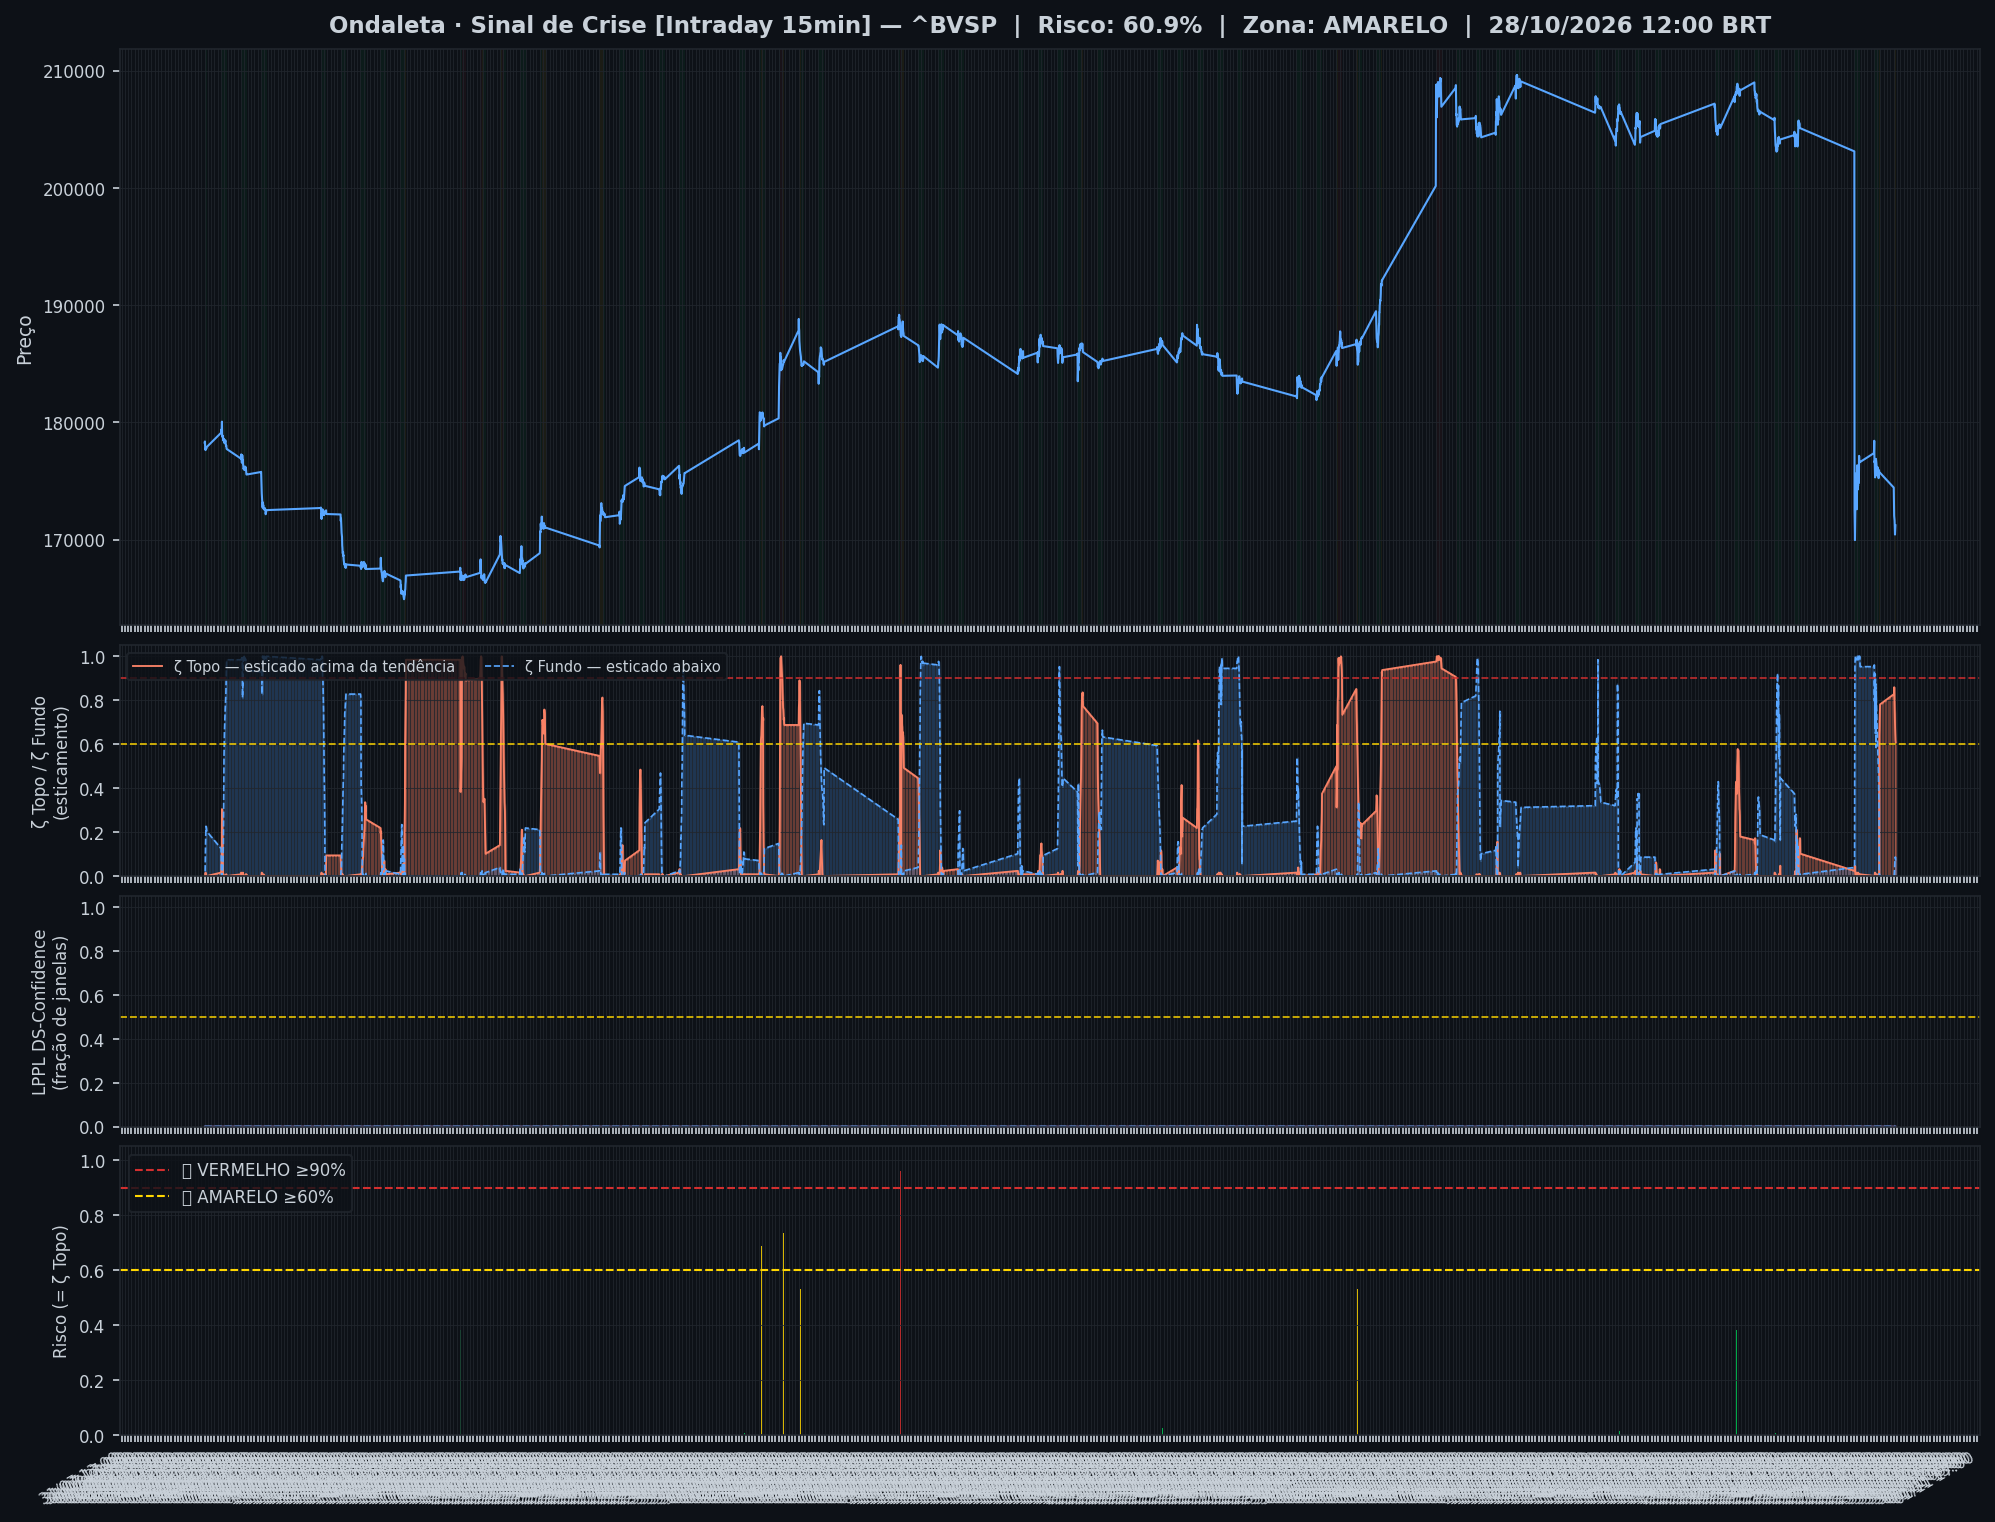
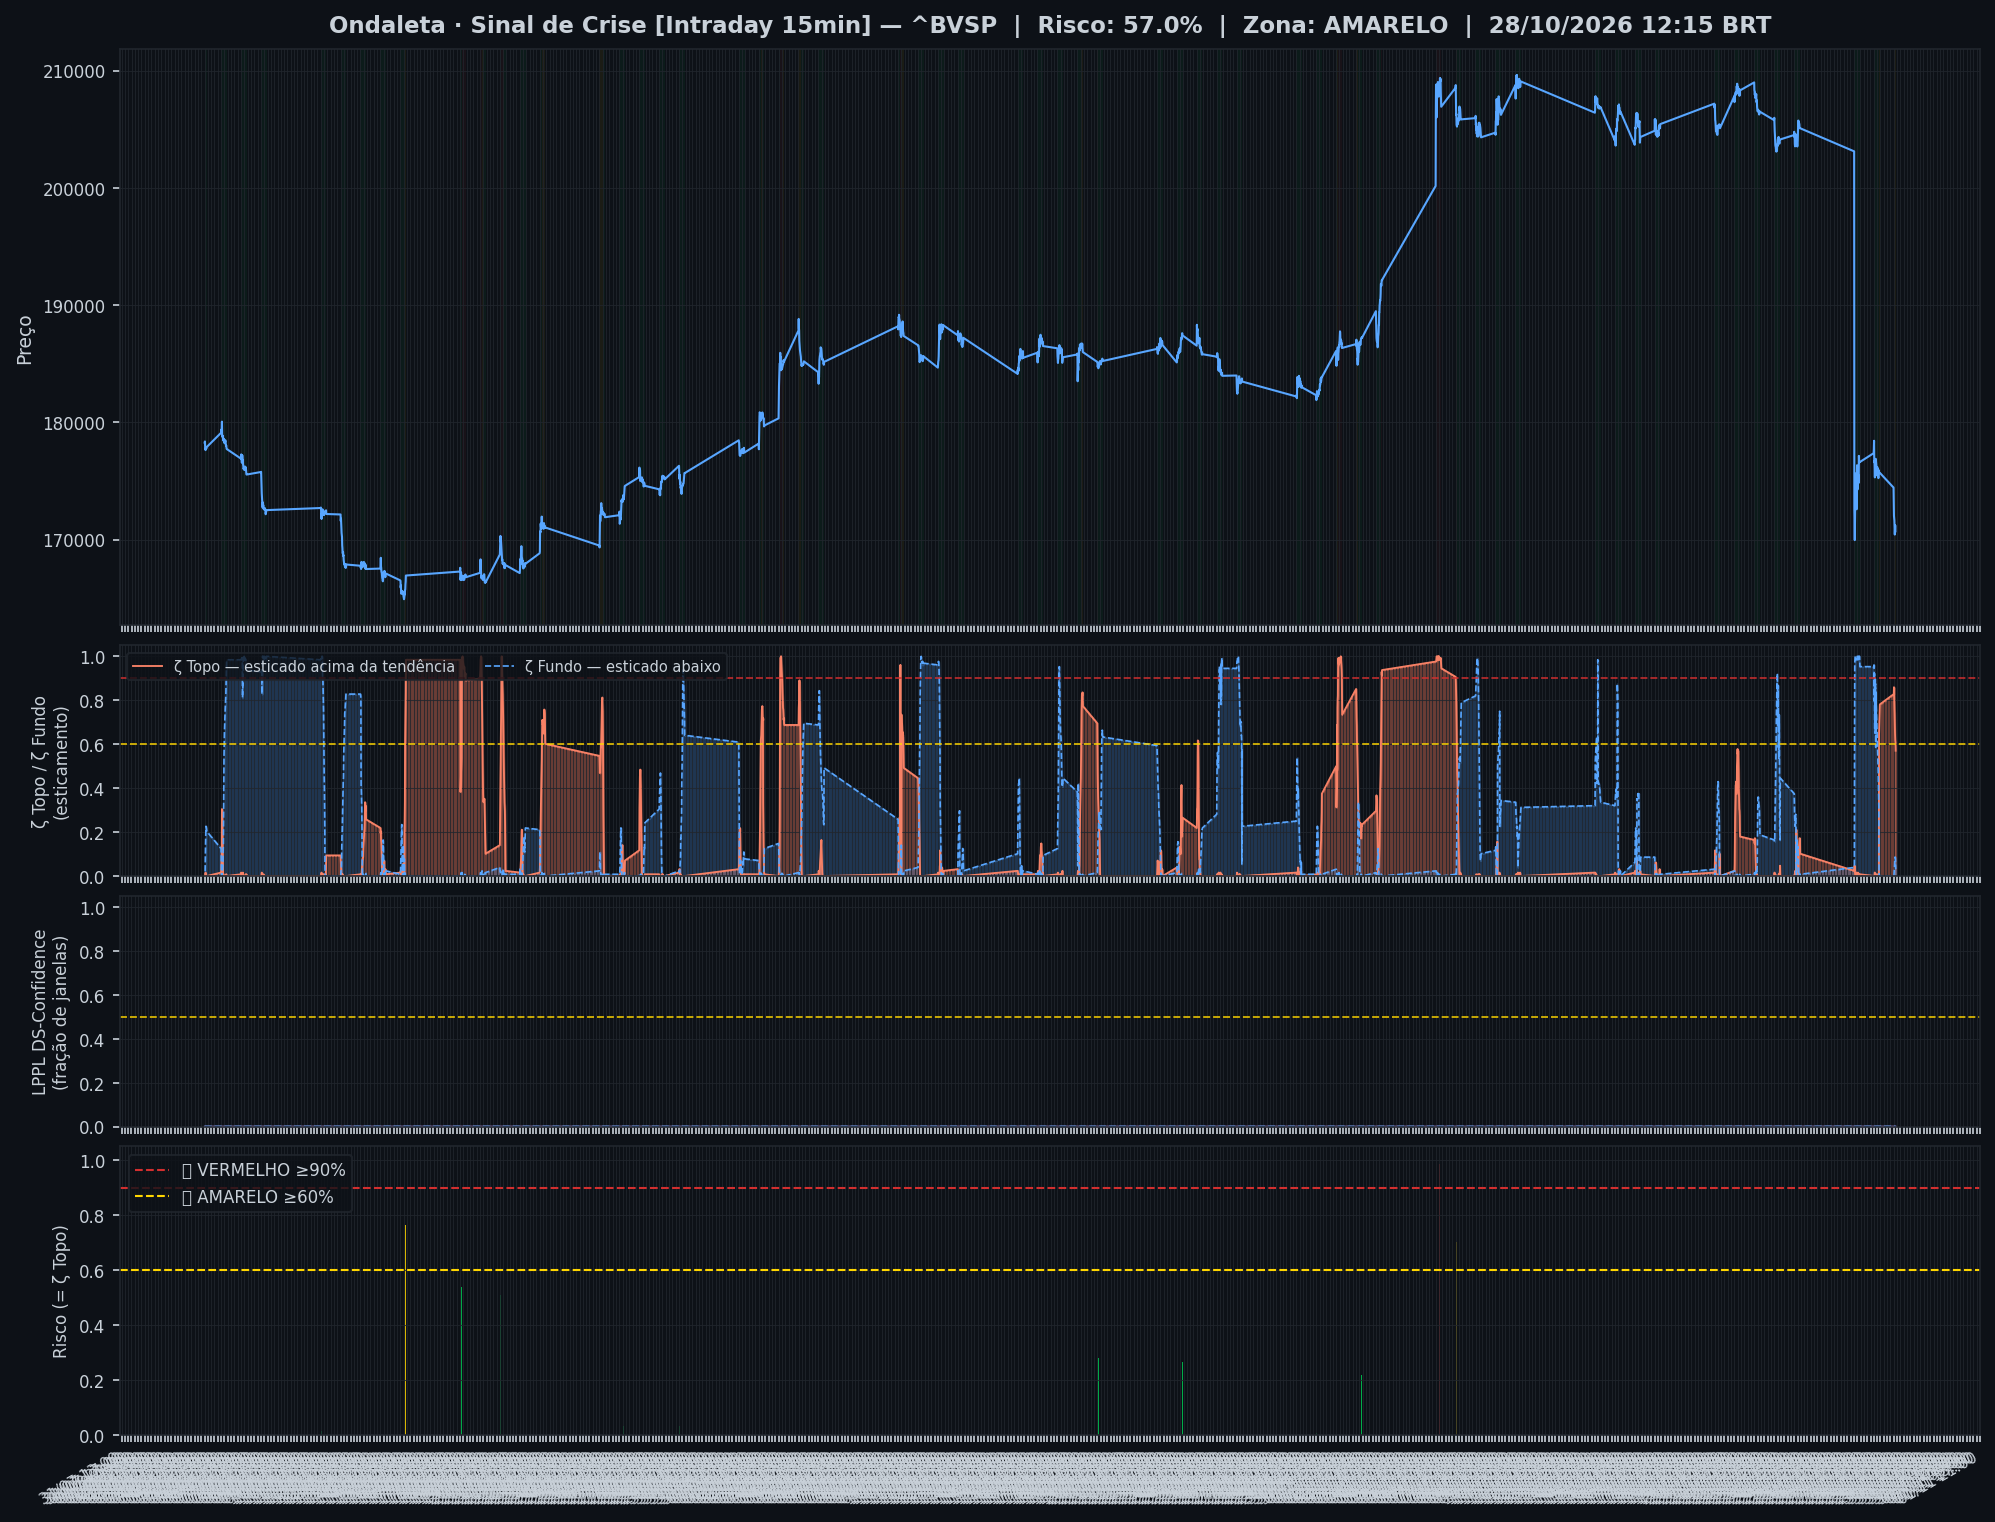
🤖 Auto: Sinal 28/10/2026 12:31

diff --git a/content/intraday/2026-10-28.md b/content/intraday/2026-10-28.md
@@ -1,13 +1,13 @@
 ---
-title: "🟡 Intraday 28/10/2026 12:00 BRT — AMARELO"
+title: "🟡 Intraday 28/10/2026 12:15 BRT — AMARELO"
 date: 2026-10-28
 tags: [intraday]
 ---
 
-> [!warning] Onde o mercado está agora (28/10 12:00, candles de 15 min): **🟡 Esticado para cima**
+> [!success] Onde o mercado está agora (28/10 12:15, candles de 15 min): **🟢 Calmo**
 > `Pânico ◀───────────────●─────▶ Euforia`
 >
-> O Ibovespa subiu mais rápido que o normal e está acima da sua faixa habitual.
+> O Ibovespa está dentro da sua faixa normal, sem excesso para cima nem para baixo.
 > No gráfico diário: 🟡 Preço esticado acima da tendência.
 >
 > *Leitura educacional baseada em 26 anos de dados. Não é recomendação de investimento.*
@@ -20,26 +20,25 @@ tags: [intraday]
 > | 📍 **Sinais** | hoje: 2 sinal(is) | [abrir](sinais-topo-fundo/) |
 > | 🧪 **Placar ao vivo** | nenhuma operação encerrada ainda (desde 23/10/2026) | [abrir](operacoes/) |
 
-> [!warning] Sinal de Crise · Intraday 15 min (28/10 12:00): 🟡 **AMARELO** — Risco 61% · ▼ -1 p.p. vs leitura anterior
-> `████████████░░░░░░░░`
+> [!warning] Sinal de Crise · Intraday 15 min (28/10 12:15): 🟡 **AMARELO** — Risco 57% · ▼ -4 p.p. vs leitura anterior
+> `███████████░░░░░░░░░`
 > Atenção — preço esticado acima da tendência.
 
 
-> [!warning] ⚠ Nível alto agora — Sinal de Crise · Intraday 15 min (28/10 12:00)
-> - 🟡 **ζ Topo 61%** — preço esticado acima da tendência (risco de reversão)
+
 
 > [!note] 🧭 Sinal de Crise · Viés do diário (27/10): 🟡 **Preço esticado acima da tendência**
 > 📚 historicamente, a partir daqui o risco de correção ficou acima da média
 >
 > *Leitura educacional baseada em 26 anos de dados, não recomendação. [Como usar](../metodologia/crise#3-como-usar-na-prática).*
 
-| Indicador — Sinal de Crise · Intraday 15 min (28/10 12:00) | Valor |
+| Indicador — Sinal de Crise · Intraday 15 min (28/10 12:15) | Valor |
 |---|---|
-| 🔴 ζ Topo — preço esticado acima da tendência | 🟡 **61%** |
-| 🔵 ζ Fundo — preço esticado abaixo da tendência | 7% |
+| 🔴 ζ Topo — preço esticado acima da tendência | **57%** |
+| 🔵 ζ Fundo — preço esticado abaixo da tendência | 3% |
 | 🫧 LPPL bolha — alta super-exponencial (risco de crash) | 0% |
 | 🫧 LPPL antibolha — queda super-exponencial (risco de repique) | 0% |
-| 📊 Ibovespa | 171.219 pts |
+| 📊 Ibovespa | 170.704 pts |
 
 ![Gráfico do sinal](../graficos/sinal_intraday.png)
 
@@ -47,6 +46,7 @@ tags: [intraday]
 
 | Data | Zona | Evento | Risco | ζ Topo | ζ Fundo | LPPL |
 |---|---|---|---|---|---|---|
+| 2026-10-28 12:15 | 🟡 AMARELO |  | **57%** | 57% | 3% | 0% |
 | 2026-10-28 12:00 | 🟡 AMARELO |  | 🟡 **61%** | 🟡 **61%** | 7% | 0% |
 | 2026-10-28 11:45 | 🟡 AMARELO |  | 🟡 **62%** | 🟡 **62%** | 9% | 0% |
 | 2026-10-28 11:30 | 🟡 AMARELO |  | 🟡 **65%** | 🟡 **65%** | 9% | 0% |
@@ -76,51 +76,50 @@ tags: [intraday]
 | 2026-10-27 13:00 | 🟢 VERDE |  | **0%** | 0% | 🔵 **76%** | 0% |
 | 2026-10-27 12:45 | 🟢 VERDE |  | **0%** | 0% | 🔵 **80%** | 0% |
 | 2026-10-27 12:30 | 🟢 VERDE |  | **0%** | 0% | 🔵 **84%** | 0% |
-| 2026-10-27 12:15 | 🟢 VERDE |  | **0%** | 0% | 59% | 0% |
 
 <small>Destaques: 🟡 ≥ 60% · 🔴 ≥ 90% (Risco e ζ Topo) · 🔵 ≥ 60% · 🔪 ≥ 90% (ζ Fundo) · 🫧 ≥ 30% · 🫧🔴 ≥ 50% (LPPL)</small>
 
 ## Monitor Multi-Ativo
 
-**31% dos ativos em tensão** (5🔴 8🟡) · **3 com ζ Fundo alto** — quanto mais ativos disparam juntos, mais confiável o sinal.
+**27% dos ativos em tensão** (4🔴 7🟡) · **3 com ζ Fundo alto** — quanto mais ativos disparam juntos, mais confiável o sinal.
 
 > [!danger] Em destaque no multi-ativo
-> 🔴 **LOCALIZA** ζ Topo 98% · 🟡 **BRASIL** ζ Topo 90% · 🟡 **B3** ζ Topo 88% · 🔵 **SUZANO S.A.** ζ Fundo 86% · 🟡 **EQUATORIAL** ζ Topo 85% · 🔵 **GERDAU** ζ Fundo 82% · 🟡 **SABESP** ζ Topo 80% · 🟡 **ENEVA** ζ Topo 77% · 🟡 **BTGP BANCO** ζ Topo 65% · 🟡 **REDE D OR** ζ Topo 64% · 🔵 **BBSEGURIDADE** ζ Fundo 62%
+> 🔴 **LOCALIZA** ζ Topo 98% · 🟡 **B3** ζ Topo 87% · 🔵 **GERDAU** ζ Fundo 87% · 🟡 **BRASIL** ζ Topo 85% · 🟡 **EQUATORIAL** ζ Topo 82% · 🟡 **SABESP** ζ Topo 79% · 🔵 **SUZANO S.A.** ζ Fundo 77% · 🟡 **ENEVA** ζ Topo 73% · 🔵 **BBSEGURIDADE** ζ Fundo 69% · 🟡 **REDE D OR** ζ Topo 62%
 
 | Zona | Ativo | Setor | ζ Topo | ζ Fundo |
 |---|---|---|---|---|
-| 🔴 | **LOCALIZA** | Aluguel | 🔴 **98.4%** | 0.0% |
-| 🟡 | **BRASIL** | Financeiro | 🟡 **89.8%** | 0.8% |
-| 🔴 | **B3** | Financeiro | 🟡 **88.3%** | 0.0% |
-| 🟢 | **SUZANO S.A.** | Papel/Celulose | 2.3% | 🔵 **85.9%** |
-| 🔴 | **EQUATORIAL** | Energia | 🟡 **85.2%** | 0.0% |
-| 🟢 | **GERDAU** | Siderurgia | 0.0% | 🔵 **82.0%** |
-| 🔴 | **SABESP** | Saneamento | 🟡 **80.5%** | 0.8% |
-| 🔴 | **ENEVA** | Energia | 🟡 **76.6%** | 0.0% |
-| 🟡 | **BTGP BANCO** | Financeiro | 🟡 **64.8%** | 2.3% |
-| 🟡 | **REDE D OR** | Saúde | 🟡 **64.1%** | 0.8% |
-| 🟢 | **BBSEGURIDADE** | Financeiro | 0.0% | 🔵 **62.5%** |
-| 🟡 | **BRADESCO** | Financeiro | 53.9% | 10.9% |
-| 🟡 | **ITAUSA** | Financeiro | 53.1% | 7.0% |
-| 🟢 | **PRIO** | Petróleo | 49.2% | 1.6% |
-| 🟡 | **COPEL** | Energia | 47.7% | 2.3% |
-| 🟢 | **USD/BRL** | Câmbio | 3.1% | 46.9% |
-| 🟡 | **VIBRA** | Energia | 46.1% | 0.0% |
-| 🟡 | **ITAUUNIBANCO** | Financeiro | 45.3% | 20.3% |
-| 🟢 | **AMBEV S/A** | Consumo | 43.0% | 16.4% |
-| 🟢 | **AXIA ENERGIA** | Energia | 39.1% | 16.4% |
-| 🟢 | **ULTRAPAR** | Outros | 32.0% | 19.5% |
-| 🟢 | **VALE** | Mineração | 0.0% | 17.2% |
-| 🟢 | **WEG** | Industrial | 15.6% | 0.8% |
-| 🟢 | **EMBRAER** | Outros | 0.0% | 7.0% |
+| 🔴 | **LOCALIZA** | Aluguel | 🔴 **97.7%** | 0.8% |
+| 🔴 | **B3** | Financeiro | 🟡 **86.7%** | 0.8% |
+| 🟢 | **GERDAU** | Siderurgia | 0.8% | 🔵 **86.7%** |
+| 🟡 | **BRASIL** | Financeiro | 🟡 **85.2%** | 1.6% |
+| 🔴 | **EQUATORIAL** | Energia | 🟡 **82.0%** | 0.8% |
+| 🔴 | **SABESP** | Saneamento | 🟡 **78.9%** | 0.8% |
+| 🟢 | **SUZANO S.A.** | Papel/Celulose | 6.2% | 🔵 **77.3%** |
+| 🟡 | **ENEVA** | Energia | 🟡 **73.4%** | 0.8% |
+| 🟢 | **BBSEGURIDADE** | Financeiro | 0.0% | 🔵 **68.8%** |
+| 🟡 | **REDE D OR** | Saúde | 🟡 **61.7%** | 1.6% |
+| 🟡 | **BTGP BANCO** | Financeiro | 59.4% | 1.6% |
+| 🟡 | **BRADESCO** | Financeiro | 54.7% | 10.2% |
+| 🟡 | **ITAUSA** | Financeiro | 52.3% | 3.1% |
+| 🟢 | **PRIO** | Petróleo | 52.3% | 1.6% |
+| 🟡 | **COPEL** | Energia | 50.0% | 0.8% |
+| 🟢 | **ITAUUNIBANCO** | Financeiro | 44.5% | 19.5% |
+| 🟢 | **VIBRA** | Energia | 43.8% | 0.0% |
+| 🟢 | **AMBEV S/A** | Consumo | 42.2% | 14.8% |
+| 🟢 | **AXIA ENERGIA** | Energia | 37.5% | 18.0% |
+| 🟢 | **USD/BRL** | Câmbio | 6.2% | 35.2% |
+| 🟢 | **ULTRAPAR** | Outros | 32.8% | 17.2% |
+| 🟢 | **WEG** | Industrial | 18.0% | 0.0% |
+| 🟢 | **VALE** | Mineração | 0.8% | 17.2% |
 | 🟢 | **PETROBRAS** | Petróleo | 4.7% | 0.0% |
+| 🟢 | **EMBRAER** | Outros | 0.0% | 3.9% |
 | 🟢 | **PETROBRAS** | Petróleo | 2.3% | 0.0% |
 
 <small>Destaques: 🟡 ≥ 60% · 🔴 ≥ 90% (Risco e ζ Topo) · 🔵 ≥ 60% · 🔪 ≥ 90% (ζ Fundo) · 🫧 ≥ 30% · 🫧🔴 ≥ 50% (LPPL)</small>
 
 ![Monitor multi-ativo](../graficos/multi_intraday.png)
 
-*Página atualizada em 28/10/2026 12:15 BRT (leitura da barra de 2026-10-28 12:00 BRT).*
+*Página atualizada em 28/10/2026 12:31 BRT (leitura da barra de 2026-10-28 12:15 BRT).*
 
 > [!info]- Como interpretar (clique para expandir)
 > - **ζ Topo**: fração dos coeficientes wavelet (Chapéu Mexicano, Caetano & Yoneyama 2009) acima de +0,8σ na faixa mais recente. Na ponta da série isso acontece quando o preço termina **esticado acima da tendência** em muitas escalas — euforia/topo. ζ=0,90 é o limiar de Caetano: quedas que partiram desse padrão foram mais fundas. **É risco de reversão, não data do crash.**

diff --git a/content/index.md b/content/index.md
@@ -6,24 +6,21 @@ tags: [home]
 
 **As ondas do mercado, explicadas.** Leitura do Ibovespa com estatística de 26 anos, baseada no trabalho de pesquisadores e traders reconhecidos e adaptada por Jarbas Daniel da Costa.
 
-*Última atualização: 28/10/2026 12:15 BRT · Intraday 15min*
+*Última atualização: 28/10/2026 12:31 BRT · Intraday 15min*
 
-> [!warning] Onde o mercado está agora (28/10 12:00, candles de 15 min): **🟡 Esticado para cima**
+> [!success] Onde o mercado está agora (28/10 12:15, candles de 15 min): **🟢 Calmo**
 > `Pânico ◀───────────────●─────▶ Euforia`
 >
-> O Ibovespa subiu mais rápido que o normal e está acima da sua faixa habitual.
+> O Ibovespa está dentro da sua faixa normal, sem excesso para cima nem para baixo.
 > No gráfico diário: 🟡 Preço esticado acima da tendência.
 >
 > *Leitura educacional baseada em 26 anos de dados. Não é recomendação de investimento.*
-
-> [!warning] ⚠ Nível alto agora — Sinal de Crise · Intraday 15 min (28/10 12:00)
-> - 🟡 **ζ Topo 61%** — preço esticado acima da tendência (risco de reversão)
 
 ## Agora
 
 | Módulo | Agora | |
 |---|---|---|
-| 🌊 **Sinal de Crise** | 🟡 AMARELO · 🟡 esticado para cima · ζ Topo 🟡 **61%** | [relatório](intraday/2026-10-28) |
+| 🌊 **Sinal de Crise** | 🟡 AMARELO · 🟢 calmo · ζ Topo 57% | [relatório](intraday/2026-10-28) |
 | 📈 **Tendência MME9** | Diário 🟢 comprado desde 02/10 (-6,5%) · ⚡ zera abaixo de 169.516 (durante o pregão)<br>Semanal 🟢 comprado desde 31/08 (-0,4%) | [abrir](operacoes/tendencia) |
 | 🎯 **Entradas do método** | 🟢 comprado: Diário · Nadaraya<br>⏳ aguardando: H4 · Semáforo N2 | [abrir](operacoes/entradas) |
 | 📍 **Sinais** | hoje: 2 sinal(is) | [abrir](sinais-topo-fundo/) |
@@ -53,26 +50,26 @@ tags: [home]
 > *Leitura educacional baseada em 26 anos de dados, não recomendação. [Como usar](metodologia/crise#3-como-usar-na-prática).*
 
 > [!info]- 🌊 Detalhes do Sinal de Crise (indicadores e últimos 7 pregões)
-> > [!warning] Sinal de Crise · Intraday 15 min (28/10 12:00): 🟡 **AMARELO** — Risco 61% · ▼ -1 p.p. vs leitura anterior
-> > `████████████░░░░░░░░`
+> > [!warning] Sinal de Crise · Intraday 15 min (28/10 12:15): 🟡 **AMARELO** — Risco 57% · ▼ -4 p.p. vs leitura anterior
+> > `███████████░░░░░░░░░`
 > > Atenção — preço esticado acima da tendência.
 >
 >
-> | Indicador — Sinal de Crise · Intraday 15 min (28/10 12:00) | Valor |
+> | Indicador — Sinal de Crise · Intraday 15 min (28/10 12:15) | Valor |
 > |---|---|
-> | 🔴 ζ Topo — preço esticado acima da tendência | 🟡 **61%** |
-> | 🔵 ζ Fundo — preço esticado abaixo da tendência | 7% |
+> | 🔴 ζ Topo — preço esticado acima da tendência | **57%** |
+> | 🔵 ζ Fundo — preço esticado abaixo da tendência | 3% |
 > | 🫧 LPPL bolha — alta super-exponencial (risco de crash) | 0% |
 > | 🫧 LPPL antibolha — queda super-exponencial (risco de repique) | 0% |
-> | 📊 Ibovespa | 171.219 pts |
+> | 📊 Ibovespa | 170.704 pts |
 >
-> **Multi-ativo:** 31% em tensão (5🔴 8🟡 de 26 ativos)
+> **Multi-ativo:** 27% em tensão (4🔴 7🟡 de 26 ativos)
 >
 > **Últimos 7 pregões**
 >
 > | Data | Zona | Risco | ζ Topo | ζ Fundo | LPPL |
 > |---|---|---|---|---|---|
-> | [28/10/2026](intraday/2026-10-28) | 🟡 AMARELO | 🟡 **61%** | 🟡 **61%** | 7% | 0% |
+> | [28/10/2026](intraday/2026-10-28) | 🟡 AMARELO | **57%** | 57% | 3% | 0% |
 > | [27/10/2026](intraday/2026-10-27) | 🟡 AMARELO | 🟡 **78%** | 🟡 **78%** | 0% | 0% |
 >
 > <small>Destaques: 🟡 ≥ 60% · 🔴 ≥ 90% (Risco e ζ Topo) · 🔵 ≥ 60% · 🔪 ≥ 90% (ζ Fundo) · 🫧 ≥ 30% · 🫧🔴 ≥ 50% (LPPL)</small>

diff --git a/content/operacoes/ranking.md b/content/operacoes/ranking.md
@@ -5,7 +5,7 @@ tags: [operacoes]
 description: "As regras de compra do site ordenadas pelo resultado, com treino, teste e placar ao vivo"
 ---
 
-*Atualizado 28/10/2026 12:15 · histórico simulado com as regras congeladas em 23/10/2026 + placar ao vivo.*
+*Atualizado 28/10/2026 12:31 · histórico simulado com as regras congeladas em 23/10/2026 + placar ao vivo.*
 
 As regras de compra do site, **da que mais rendeu para a que menos rendeu**. O resultado é por operação, no índice à vista, sem custos e sem juros compostos (a soma é só a soma das operações). **Treino** = entradas de 2001 a 2013 e **teste** = 2014 em diante: uma regra só é confiável se ganhou nos dois. O único resultado sem nenhum ajuste ao histórico é o **placar ao vivo**.
 

diff --git a/content/linha-do-tempo/index.md b/content/linha-do-tempo/index.md
@@ -5,7 +5,7 @@ description: "Todo sinal, ordem, stop e aviso da Ondaleta, do mais recente para 
 tags: [eventos]
 ---
 
-*Atualizada 28/10/2026 12:15 BRT · a cada 15 min no pregão e às 19h.*
+*Atualizada 28/10/2026 12:31 BRT · a cada 15 min no pregão e às 19h.*
 
 Tudo o que o sistema fez ou detectou, **do mais recente para o mais antigo**: sinais de topo e fundo, ordens de compra e de venda armadas, compras, vendas, stops, avisos de 🚨 preço perto do nível e mudanças da Crise. Os **últimos 7 dias** ficam abertos; o resto, por **ano → mês → dia**.
 

diff --git a/content/historico.md b/content/historico.md
@@ -7,6 +7,7 @@ tags: [historico]
 
 | Data | Modo | Zona | Risco | IMA | LPPL |
 |---|---|---|---|---|---|
+| 2026-10-28 12:15 | intraday | 🟡 AMARELO | 57% | 57% | 0% |
 | 2026-10-28 12:00 | intraday | 🟡 AMARELO | 🟡 **61%** | 🟡 **61%** | 0% |
 | 2026-10-28 11:45 | intraday | 🟡 AMARELO | 🟡 **62%** | 🟡 **62%** | 0% |
 | 2026-10-28 11:30 | intraday | 🟡 AMARELO | 🟡 **65%** | 🟡 **65%** | 0% |
